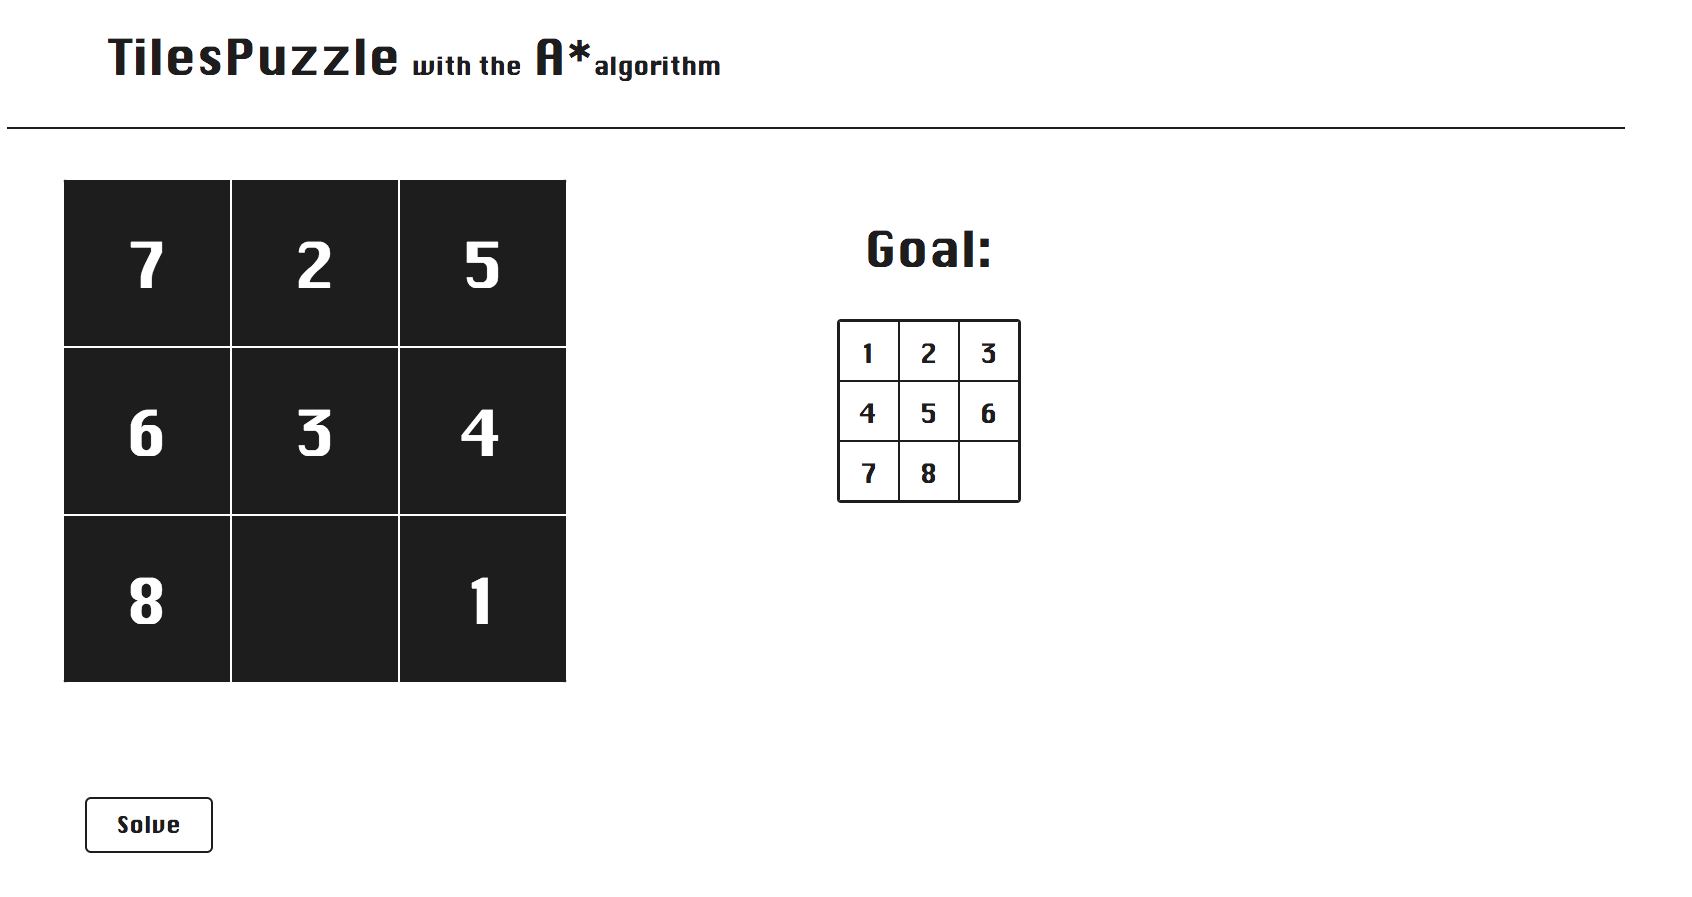
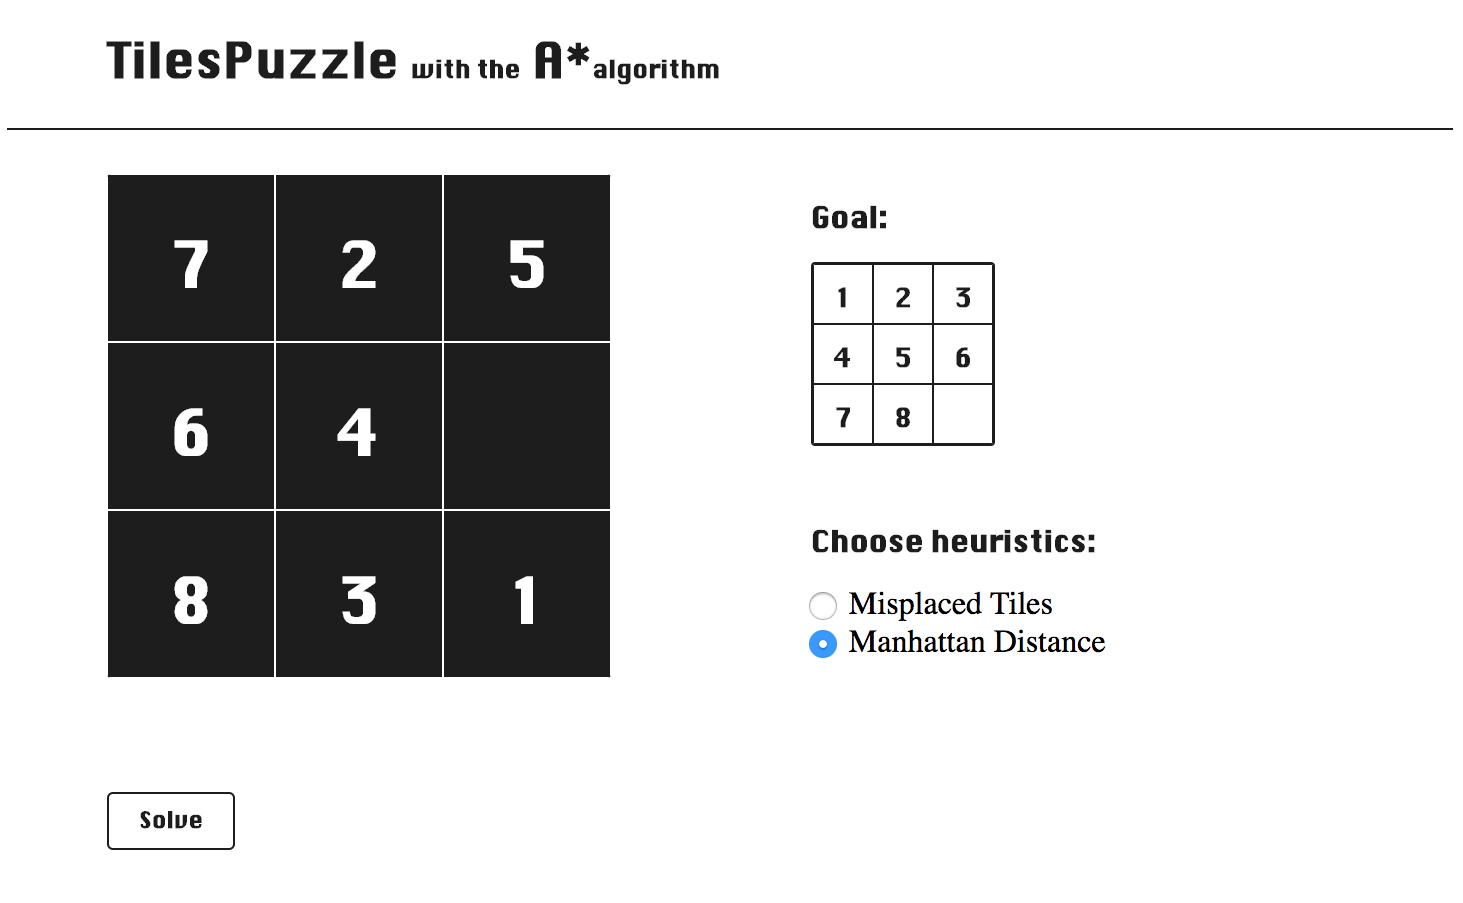
changes heuristic

diff --git a/public/js/index.js b/public/js/index.js
@@ -1,14 +1,14 @@
 $("#solve_it").click(function(){
-  radioCheck();
-    $.post("/state",
-    {
-      status: currentStatus,
-      emptyRow: emptytilePosRow,
-      emptyCol: emptytilePosCol,
-      manhattan: false,
-      misplaced: false
-    });
+  checkRadioButtons();
+  console.log(time);
+  $.post("/state", {
+    status: currentStatus,
+    emptyRow: emptytilePosRow,
+    emptyCol: emptytilePosCol,
+    manhattan: manhattan
+  });
 });
+
 
 function loadSolution() {
   var xhttp = new XMLHttpRequest();
@@ -19,10 +19,10 @@ function loadSolution() {
     }
   };
 
-  setTimeout(function() {
-    xhttp.open("GET", "/solution", true);
-    xhttp.send();
-  }, 2700);
+  // setTimeout(function() {
+  //   xhttp.open("GET", "/solution", true);
+  //   xhttp.send();
+  // }, 6000);
 
   setTimeout(function(){
     var solution = document.getElementById('solved').value;
@@ -34,5 +34,43 @@ function loadSolution() {
         showSolution();
       });
     });
-  }, 3000);
+  }, 7000);
 }
+
+
+// function calculateSolution() {
+//   document.getElementById("solve_it").click(function(){
+//     checkRadioButtons();
+//     $.post("/state", {
+//       status: currentStatus,
+//       emptyRow: emptytilePosRow,
+//       emptyCol: emptytilePosCol,
+//       manhattan: manhattan
+//     });
+//   })
+//
+//   var xhttp = new XMLHttpRequest();
+//
+//   xhttp.onreadystatechange = function() {
+//     if (this.readyState == 4 && this.status == 200) {
+//       document.getElementById("solution_panel").innerHTML = this.responseText;
+//     }
+//   };
+//
+//   setTimeout(function() {
+//     xhttp.open("GET", "/solution", true);
+//     xhttp.send();
+//   }, 6000);
+//
+//   setTimeout(function(){
+//     var solution = document.getElementById('solved').value;
+//     console.log('path: ' + solution);
+//     document.getElementById('show_solution').style.visibility = 'visible';
+//
+//     $("#show_solution").click(function() {
+//       document.addEventListener("DOMContentLoaded", function(event) {
+//         showSolution();
+//       });
+//     });
+//   }, 7000);
+// }

diff --git a/public/js/test.js b/public/js/test.js
@@ -1,0 +1,69 @@
+function calculateSolution(url, callback) {
+
+  var xhttp = new XMLHttpRequest();
+
+  document.getElementById("solve_it").click(function(){
+    checkRadioButtons();
+    $.post("/state", {
+      status: currentStatus,
+      emptyRow: emptytilePosRow,
+      emptyCol: emptytilePosCol,
+      manhattan: manhattan
+    });
+  })
+
+
+  xhttp.onreadystatechange = function() {
+    if (this.readyState == 4 && this.status == 200) {
+      document.getElementById("solution_panel").innerHTML = this.responseText;
+    }
+  };
+
+  setTimeout(function() {
+    xhttp.open("GET", "/solution", true);
+    xhttp.send();
+  }, 6000);
+
+  setTimeout(function(){
+    var solution = document.getElementById('solved').value;
+    console.log('path: ' + solution);
+    document.getElementById('show_solution').style.visibility = 'visible';
+
+    $("#show_solution").click(function() {
+      document.addEventListener("DOMContentLoaded", function(event) {
+        showSolution();
+      });
+    });
+  }, 7000);
+}
+
+
+
+function some_function2(url, callback) {
+  var httpRequest; // create our XMLHttpRequest object
+  if (window.XMLHttpRequest) {
+    httpRequest = new XMLHttpRequest();
+  } else if (window.ActiveXObject) {
+    // Internet Explorer is stupid
+    httpRequest = new
+    ActiveXObject("Microsoft.XMLHTTP");
+  }
+
+  httpRequest.onreadystatechange = function() {
+    // inline function to check the status
+    // of our request
+    // this is called on every state change
+    if (httpRequest.readyState === 4 &&
+      httpRequest.status === 200) {
+      callback.call(httpRequest.responseXML);
+      // call the callback function
+    }
+  };
+  httpRequest.open('GET', url);
+  httpRequest.send();
+}
+// call the function
+some_function2("text.xml", function() {
+  console.log(this);
+});
+console.log("this will run before the above callback");

diff --git a/public/js/heuristics.js b/public/js/heuristics.js
@@ -1,10 +1,12 @@
-function radioCheck() {
+var time;
+
+function checkRadioButtons() {
   if(document.getElementById('manhattan').checked) {
     manhattan = true;
-    console.log(manhattan);
+    time = 3000;
   }else if(document.getElementById('misplaced').checked) {
-    misplaced = true;
-    console.log(misplaced);
+    manhattan = false;
+    time = 5000;
   } else {
     alert("Choose heuristic first, please");
   }

diff --git a/public/js/moveTile.js b/public/js/moveTile.js
@@ -4,8 +4,7 @@
 */
 
 var currentStatus = new Array();
-var manhattan, misplaced;
-
+var manhattan = false;
 // window.onload = updateStatus();
 
 window.onload = function updateStatus(){

diff --git a/lib/expand_node.rb b/lib/expand_node.rb
@@ -6,7 +6,7 @@ require_relative 'deep_clone'
 
 class ExpandNode
   extend ManhattanDistance, MisplacedTiles
-  attr_accessor :visited, :queue
+  attr_accessor :visited, :queue, :manhattan
 
   def initialize(node)
     @newState = node.state
@@ -17,14 +17,14 @@ class ExpandNode
     @path = node.path
   end
 
-  def movesEmptyNode(visited, queue)
+  def movesEmptyNode(visited, queue, manhattan)
     if @row > 0
       stateUp = @newState.deep_clone
       state = tileSwap(stateUp, @row - 1, @column)
       newNode = Node.new(0, state, @row - 1, @column,  @depth + 1)
 
       if !visited.include?(newNode.stringRepresentation)
-        update(newNode, visited, queue)
+        update(newNode, visited, queue, manhattan)
         newNode.path = @path + "U"
       end
     end
@@ -35,7 +35,7 @@ class ExpandNode
       newNode = Node.new(0, state, @row + 1, @column,  @depth + 1)
 
       if !visited.include?(newNode.stringRepresentation)
-        update(newNode, visited, queue)
+        update(newNode, visited, queue, manhattan)
         newNode.path = @path + "D"
       end
     end
@@ -46,7 +46,7 @@ class ExpandNode
       newNode = Node.new(0, state, @row, @column - 1,  @depth + 1)
 
       if !visited.include?(newNode.stringRepresentation)
-        update(newNode, visited, queue)
+        update(newNode, visited, queue, manhattan)
         newNode.path = @path + "L"
       end
     end
@@ -57,7 +57,7 @@ class ExpandNode
       newNode = Node.new(0, state, @row, @column + 1,  @depth + 1)
 
       if !visited.include?(newNode.stringRepresentation)
-        update(newNode, visited, queue)
+        update(newNode, visited, queue, manhattan)
         newNode.path = @path + "R"
       end
     end
@@ -72,8 +72,12 @@ class ExpandNode
     return state
   end
 
-  def update(newNode, visited, queue)
-    newNode.value = newNode.depth + ManhattanDistance.heuristics(newNode)
+  def update(newNode, visited, queue, manhattan)
+    if manhattan
+      newNode.value = newNode.depth + ManhattanDistance.heuristic(newNode)
+    else
+      newNode.value = newNode.depth + MisplacedTiles.heuristic(newNode)
+    end
     queue.push(newNode)
     visited.add(newNode.stringRepresentation)
   end

diff --git a/lib/astar.rb b/lib/astar.rb
@@ -2,23 +2,28 @@ require 'pqueue'
 require 'set'
 
 class Astar
-  attr_accessor :visited, :queue
+  attr_accessor :visited, :queue, :manhattan
 
-  def initialize(initial, goal)
+  def initialize(initial, goal, manhattan)
     @initial = initial
     @goal = goal
     @visited = Set.new
     @queue = PQueue.new([initial]){ |a, b| a.value < b.value }
+    @manhattan = manhattan
+    @setOfNodes = []
   end
 
   def execute
     @visited.add([@initial.stringRepresentation])
     while @queue.length > 0
       current = @queue.pop
+      @setOfNodes.push(current)
       if current.stringRepresentation === @goal.stringRepresentation
+        p @setOfNodes.length
+        @setOfNodes.each {|x| p x.depth}
         return current
       else
-        ExpandNode.new(current).movesEmptyNode(@visited, @queue)
+        ExpandNode.new(current).movesEmptyNode(@visited, @queue, @manhattan)
       end
     end
   end

diff --git a/lib/app_helper.rb b/lib/app_helper.rb
@@ -2,7 +2,17 @@ def solving_puzzle
   @status = @status.each_slice(3).to_a
   init = Node.new(0, @status, @emptyRow, @emptyCol, 0)
   goal = Node.new(0, [[1,2,3],[4,5,6],[7,8,0]], 2, 2, 0)
-  astar = Astar.new(init, goal)
+  heuristic
+  astar = Astar.new(init, goal, @manhattan)
   astar.queue
   @solved = astar.execute
+end
+
+def heuristic
+  if @manhattan.to_s == "true"
+    @manhattan = true
+  else
+    @manhattan = false
+  end
+  return @manhattan
 end

diff --git a/app.rb b/app.rb
@@ -19,9 +19,9 @@ class TilesGame < Sinatra::Base
     @status = params[:status].map!{ |s| s.to_i }
     @emptyRow = params[:emptyRow].to_i
     @emptyCol = params[:emptyCol].to_i
-
+    @manhattan = params[:manhattan]
     solving_puzzle
-
+    p @solved
     session[:solution] = @solved.path
     p "time: #{Time.now - start}"
   end

diff --git a/lib/manhattan_distance.rb b/lib/manhattan_distance.rb
@@ -1,5 +1,5 @@
 module ManhattanDistance
-  def ManhattanDistance.heuristics(node)
+  def ManhattanDistance.heuristic(node)
     result = 0
     goal = [[1,2,3],[4,5,6],[7,8,0]]
 

diff --git a/lib/misplaced_tiles.rb b/lib/misplaced_tiles.rb
@@ -1,5 +1,5 @@
 module MisplacedTiles
-  def MisplacedTiles.heuristics(node)
+  def MisplacedTiles.heuristic(node)
     result = 0
     goal = [[1,2,3],[4,5,6],[7,8,0]]
 
